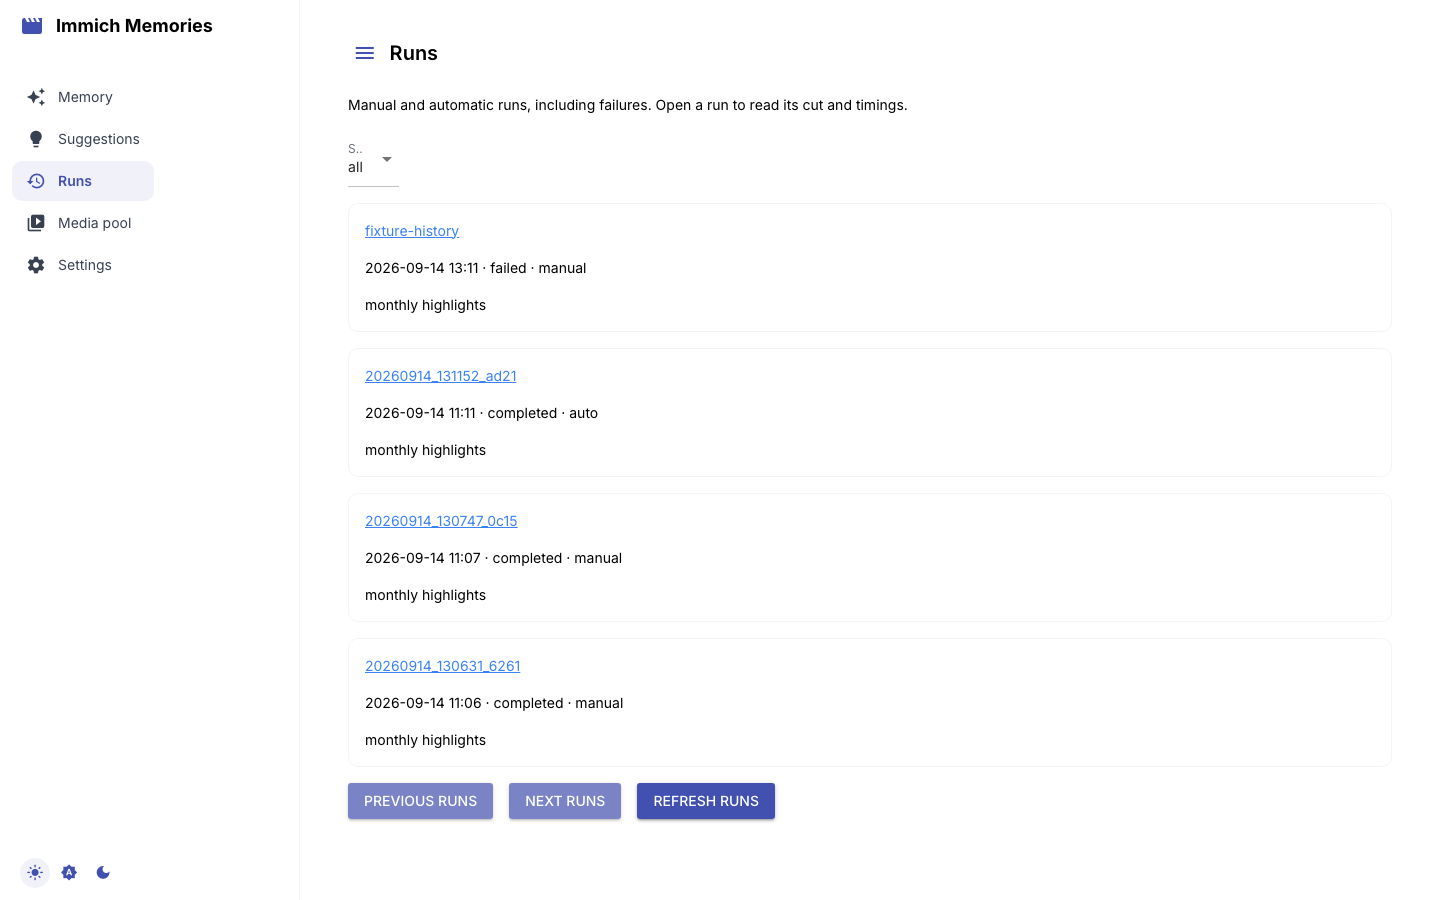
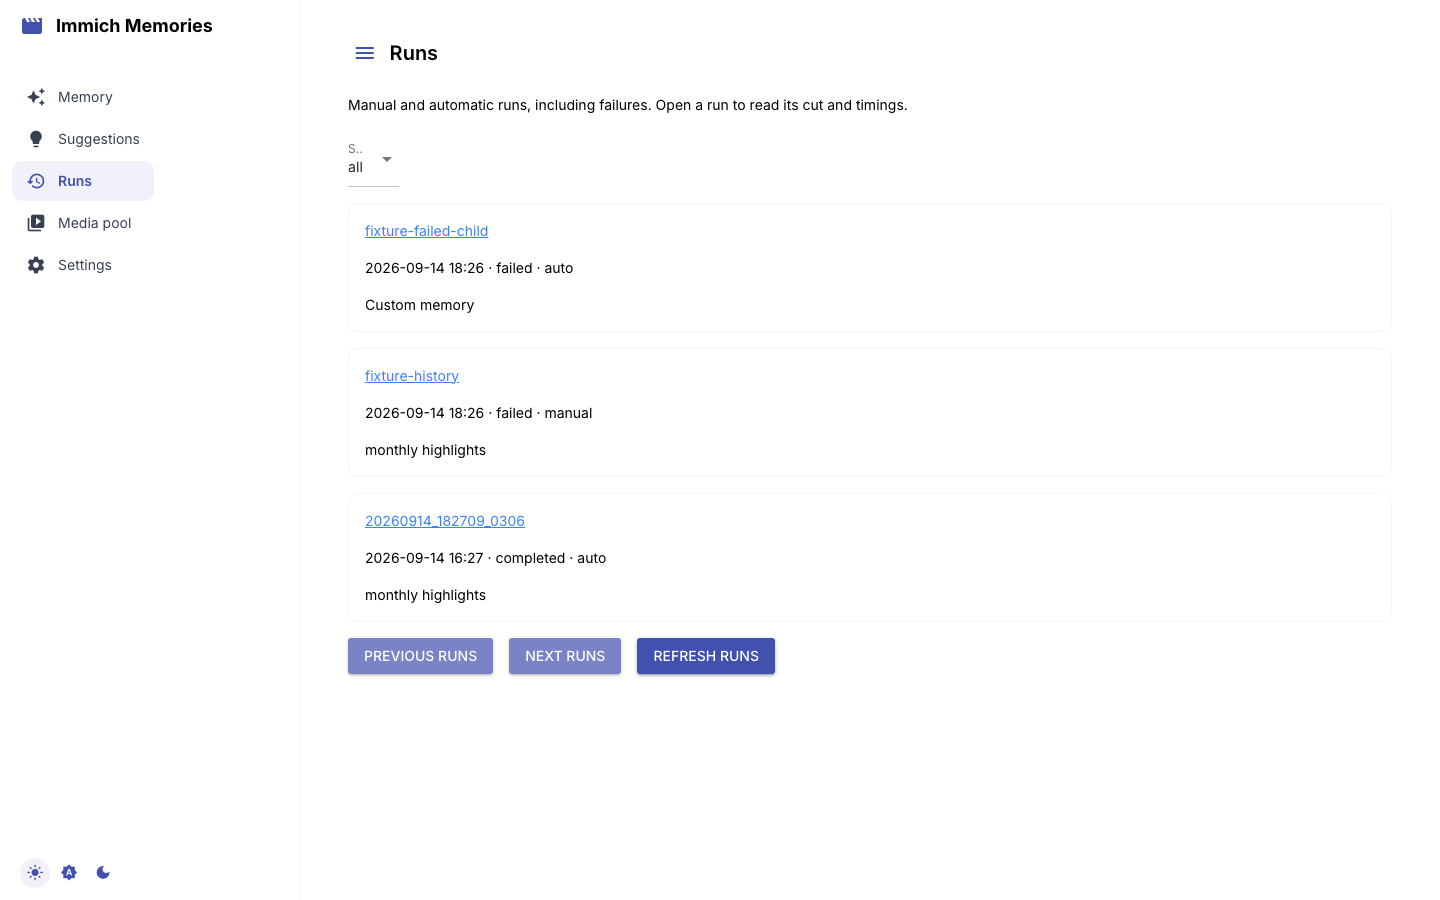
fix(ui): start a suggestion the way the trigger API does, and open a failed run
The Suggestions page called AutoRunner.run_one, the blocking path the runner
keeps apart from start_one precisely because an HTTP surface has to answer
immediately. The page now takes the lease itself under its own attempt reason,
submits the work off the request path, and polls the attempt: while a render
runs the page names its pipeline phase instead of showing one static line, and
`auto status` can tell a browser click apart from the nightly wake.

A failed generation finishes with no run id on the attempt, so the page offered
no way to reach the run whose transcript is the reason the transcript exists.
RunDatabase can now find the run an attempt started whatever its status, and the
outcome line carries the error the attempt recorded.

Two loads could overlap (the first-load timer and the Refresh button), each
clearing an empty column and appending its own copy of the list.

run-details.png and dark-run-details.png were committed but nothing in the docs
resolved them; they now illustrate the paragraph in runs.mdx that describes a
run's details, and the fixture path redaction no longer stamps a 2025 filename
over a 2024 cut.

Claude-Session: https://claude.ai/code/session_01WB1CNaEvtRKx9hFW8NR59V

diff --git a/src/immich_memories/ui/pages/suggestions.py b/src/immich_memories/ui/pages/suggestions.py
@@ -1,11 +1,28 @@
 """The automation runner's eligible memories and its reasons for passing over others."""
 
+import asyncio
+from typing import Any
+
 from nicegui import run, ui
 
-from immich_memories.automation.models import AutoOutcome
-from immich_memories.automation.runner import AutoRunner
+from immich_memories.automation.models import AutomationAttempt, AutoOutcome
+from immich_memories.automation.runner import (
+    AutomationAlreadyRunningError,
+    AutoRunner,
+    StartedAutoRun,
+)
+from immich_memories.automation.state_store import AutomationStateStore
 from immich_memories.security import sanitize_error_message
+from immich_memories.tracking import RunDatabase
 from immich_memories.ui.components import im_card
+
+# What the attempt history records for a run somebody started from this page, so
+# `auto status` and /health tell a browser click apart from the nightly wake.
+SUGGESTION_REASON = "web suggestion"
+
+# asyncio keeps only a weak reference to a bare task, so a generation nobody
+# awaits can be collected mid-render. These are the strong ones.
+_running: set[asyncio.Task[Any]] = set()
 
 _RULES = {
     "same_category_as_previous": "The previous automatic memory used this category.",
@@ -13,6 +30,51 @@ _RULES = {
     "monthly_review_already_completed_this_month": "A monthly review already finished this month.",
     "person_in_last_two_person_runs": "These people appear in the last two people memories.",
 }
+
+
+def _start(config) -> StartedAutoRun | None:
+    try:
+        return AutoRunner(config).start_one(reason=SUGGESTION_REASON)
+    except AutomationAlreadyRunningError:
+        return None
+
+
+def _submit(started: StartedAutoRun, *, candidate_key: str, dry_run: bool) -> None:
+    """Execute the accepted decision off the page, the way the HTTP trigger does.
+
+    A generation blocks for up to two hours. Awaiting it here would hold a worker
+    and leave the page with nothing to show but one static line.
+    """
+    task = asyncio.create_task(
+        asyncio.to_thread(started.execute, candidate_key=candidate_key, dry_run=dry_run)
+    )
+    _running.add(task)
+    task.add_done_callback(_running.discard)
+
+
+def _read_attempt(config, attempt_id: str) -> AutomationAttempt | None:
+    return AutomationStateStore(config.cache.database_path).get_attempt(attempt_id)
+
+
+def _run_id_for(config, attempt: AutomationAttempt) -> str | None:
+    """The run to open: the one the attempt recorded, else the one it started.
+
+    A failed generation finishes with no run id on the attempt, but the child
+    opened its run record before it failed, and that is where its output lives.
+    """
+    if attempt.run_id:
+        return attempt.run_id
+    record = RunDatabase(config.cache.database_path).get_run_by_automation_attempt(attempt.id)
+    return record.run_id if record else None
+
+
+def _finished_text(attempt: AutomationAttempt) -> str:
+    if attempt.outcome is AutoOutcome.DRY_RUN:
+        return "Eligible. No video was generated."
+    headline = f"{attempt.outcome.value.replace('_', ' ').capitalize()}: {attempt.reason}"
+    if attempt.error and attempt.error != attempt.reason:
+        return f"{headline}\n{attempt.error}"
+    return headline
 
 
 class SuggestionsPage:
@@ -33,38 +95,59 @@ class SuggestionsPage:
         self.result_label = ui.label().classes("whitespace-pre-wrap")
         self.result_actions = ui.row()
         self.content = ui.column().classes("w-full")
+        self.attempt_id: str | None = None
+        self.loading = False
+        self.watch = ui.timer(1.0, self._follow, active=False)
 
         self.refresh.on_click(self._load)
         ui.timer(0.1, self._load, once=True)
 
-    async def _execute(self, key: str, *, dry_run: bool) -> None:
+    def _busy(self, message: str) -> None:
         self.refresh.disable()
         self.result_actions.clear()
         self.content.props("inert")
-        self.result_label.set_text(
-            "Checking eligibility…"
-            if dry_run
-            else "Generating on the server… The result will appear in Runs."
-        )
-        try:
-            result = await run.io_bound(
-                AutoRunner(self.config).run_one, candidate_key=key, dry_run=dry_run
-            )
-            if result is None:
-                return
+        self.result_label.set_text(message)
+
+    def _settle(self, message: str) -> None:
+        self.result_label.set_text(message)
+        self.refresh.enable()
+        self.content.props(remove="inert")
+
+    async def _execute(self, key: str, *, dry_run: bool) -> None:
+        self._busy("Checking eligibility…" if dry_run else "Starting on the server…")
+        started = await run.io_bound(_start, self.config)
+        if started is None:
+            self._settle("Automation is already running. Open Runs to follow it.")
+            return
+        self.attempt_id = started.attempt.id
+        _submit(started, candidate_key=key, dry_run=dry_run)
+        self.watch.activate()
+
+    async def _follow(self) -> None:
+        if self.attempt_id is None:
+            return
+        attempt = await run.io_bound(_read_attempt, self.config, self.attempt_id)
+        if attempt is None:
+            return
+        if attempt.outcome is AutoOutcome.RUNNING:
+            phase = attempt.last_phase.label.lower() if attempt.last_phase else "starting"
             self.result_label.set_text(
-                "Eligible. No video was generated."
-                if result.outcome is AutoOutcome.DRY_RUN
-                else f"{result.outcome.value.replace('_', ' ').capitalize()}: {result.reason}"
+                f"Running on the server: {phase}. It continues if you leave this page."
             )
-            if result.run_id:
-                with self.result_actions:
-                    ui.link("Open run", f"/runs?run_id={result.run_id}")
-        finally:
-            self.refresh.enable()
-            self.content.props(remove="inert")
+            return
+        self.watch.deactivate()
+        self.attempt_id = None
+        if run_id := await run.io_bound(_run_id_for, self.config, attempt):
+            with self.result_actions:
+                ui.link("Open run", f"/runs?run_id={run_id}")
+        self._settle(_finished_text(attempt))
 
     async def _load(self) -> None:
+        # The first load is a timer and the button is another entry point, so two
+        # can overlap; the second would clear an empty column and append a duplicate.
+        if self.loading:
+            return
+        self.loading = True
         self.refresh.disable()
         self.content.clear()
         self.result_label.set_text("Looking through the library…")
@@ -85,6 +168,7 @@ class SuggestionsPage:
                 f"Could not load suggestions: {sanitize_error_message(str(exc))}"
             )
         finally:
+            self.loading = False
             self.refresh.enable()
 
 

diff --git a/tests/e2e/test_automation_pages.py b/tests/e2e/test_automation_pages.py
@@ -37,10 +37,33 @@ def test_runs_page_reads_the_existing_database(page, launch_app_url, launch_work
     expect(page.get_by_text("Fixture provider stopped answering", exact=True)).to_be_visible()
 
 
+def test_a_failed_generation_still_offers_the_run_it_started(
+    page, launch_app_url, launch_workspace
+):
+    """A failure is exactly when the run record and its transcript are worth reaching."""
+    from tests.e2e.fake_automation import FAIL_MARKER
+
+    marker = launch_workspace.root / "state" / FAIL_MARKER
+    marker.parent.mkdir(parents=True, exist_ok=True)
+    marker.write_text("")
+    page.goto(f"{launch_app_url}/suggestions")
+    card = page.locator(".suggestion-card").filter(has_text="monthly review")
+    expect(card).to_be_visible(timeout=60_000)
+    card.get_by_role("button", name="Run this suggestion").click()
+    expect(page.get_by_text("Failed:", exact=False)).to_be_visible(timeout=120_000)
+    expect(page.get_by_role("link", name="Open run", exact=True)).to_be_visible()
+    expect(page.get_by_text("the fixture provider refused", exact=False)).to_be_visible()
+    page.get_by_role("link", name="Open run", exact=True).click()
+    expect(page.get_by_text("The fixture provider refused the render", exact=True)).to_be_visible()
+    expect(page.get_by_role("button", name="Download child output")).to_be_visible()
+
+
 def test_choose_generate_and_read_the_same_automatic_run(page, launch_app_url, launch_workspace):
     from pathlib import Path
 
+    from immich_memories.automation.state_store import AutomationStateStore
     from immich_memories.tracking import RunDatabase
+    from immich_memories.ui.pages.suggestions import SUGGESTION_REASON
     from tests.e2e.conftest import set_theme
     from tests.e2e.fake_library import CARRIERS, THESIS
     from tests.e2e.test_screenshots import _save
@@ -64,6 +87,11 @@ def test_choose_generate_and_read_the_same_automatic_run(page, launch_app_url, l
     set_theme(page, "light")
     expect(card).to_be_visible(timeout=60_000)
     card.get_by_role("button", name="Run this suggestion").click()
+    expect(page.get_by_text("Running on the server", exact=False)).to_be_visible(timeout=60_000)
+    # A run somebody clicked for is not a nightly wake, and only the live attempt
+    # carries that: finishing overwrites the reason with the outcome.
+    live = AutomationStateStore(launch_workspace.database_path).get_last_attempt()
+    assert live.reason == SUGGESTION_REASON
     expect(page.get_by_role("link", name="Open run", exact=True)).to_be_visible(timeout=240_000)
     page.get_by_role("link", name="Open run", exact=True).click()
     disclosure = page.get_by_text("Read the cut", exact=True)

diff --git a/tests/e2e/fake_automation.py b/tests/e2e/fake_automation.py
@@ -2,16 +2,40 @@
 
 import subprocess
 import sys
-from datetime import date
+from datetime import date, datetime
 from pathlib import Path
 
 from immich_memories.automation.models import ProcessResult
+
+# A test drops this file to make the next child fail the way a real generation
+# fails: its run record already opened, then a non-zero exit.
+FAIL_MARKER = "fail-next-child"
 
 
 class FixtureDate(date):
     @classmethod
     def today(cls):
         return cls(2024, 7, 1)
+
+
+def _child_that_opened_its_run_then_failed(command: list[str]) -> ProcessResult:
+    from immich_memories.config import get_config
+    from immich_memories.tracking import RunDatabase
+    from immich_memories.tracking.models import RunMetadata
+
+    values = dict(arg.split("=", 1) for arg in command if arg.startswith("--") and "=" in arg)
+    RunDatabase(get_config().cache.database_path).save_run(
+        RunMetadata(
+            run_id="fixture-failed-child",
+            created_at=datetime.now(),
+            status="failed",
+            source="auto",
+            memory_key=values.get("--memory-key"),
+            automation_attempt_id=values["--automation-attempt-id"],
+            warnings=["The fixture provider refused the render"],
+        )
+    )
+    return ProcessResult(1, "starting the fixture render\n", "the fixture provider refused\n")
 
 
 def install_fake_automation(config_path: Path, state_dir: Path) -> None:
@@ -25,6 +49,10 @@ def install_fake_automation(config_path: Path, state_dir: Path) -> None:
     trip_detection.reverse_geocode = lambda *_args, **_kwargs: "Annecy, France"
 
     def execute(command):
+        marker = state_dir / FAIL_MARKER
+        if marker.is_file():
+            marker.unlink()
+            return _child_that_opened_its_run_then_failed(command)
         result = subprocess.run(
             [
                 sys.executable,

diff --git a/tests/e2e/redaction.py b/tests/e2e/redaction.py
@@ -18,7 +18,7 @@ from playwright.sync_api import Page
 _INPUT_REDACTIONS = [
     ('input[aria-label="Immich Server URL"]', "https://photos.example.com"),
     ('input[aria-label="API Key"]', "your-api-key-here"),
-    ('input[aria-label="Output filename"]', "everyone_2025_memories.mp4"),
+    ('input[aria-label="Output filename"]', "everyone_june_2024_memories.mp4"),
     ('input[aria-label="Title"]', "Summer Adventures"),
     ('input[aria-label="Subtitle"]', "June 2025"),
 ]
@@ -32,14 +32,14 @@ _TEXT_REDACTIONS = [
     (r"http:\/\/\d+\.\d+\.\d+\.\d+:\d+", "https://photos.example.com"),
     (
         r"\/Users\/\w+\/Videos\/Memories\/.*",
-        "/home/user/Videos/Memories/everyone_2025_memories.mp4",
+        "/home/user/Videos/Memories/everyone_june_2024_memories.mp4",
     ),
     (r"\/Users\/\w+\/\.immich-memories\/.*", "/home/user/.immich-memories/config.yaml"),
     (
         r"Will be saved to: .*",
-        "Will be saved to: /home/user/Videos/Memories/everyone_2025_memories.mp4",
+        "Will be saved to: /home/user/Videos/Memories/everyone_june_2024_memories.mp4",
     ),
-    (r"Saved to: .*", "Saved to: /home/user/Videos/Memories/everyone_2025_memories.mp4"),
+    (r"Saved to: .*", "Saved to: /home/user/Videos/Memories/everyone_june_2024_memories.mp4"),
     (r"Config file: .*", "Config file: /home/user/.immich-memories/config.yaml"),
     (r"Using \w+'s birthday: .+", "Using Fake Person's birthday: June 15, 1995"),
     (r"\d+\.\d{4,},\s*-?\d+\.\d{4,}", "48.8566, 2.3522"),

diff --git a/tests/test_run_database_fk.py b/tests/test_run_database_fk.py
@@ -478,6 +478,27 @@ def test_completed_automation_attempt_identity_is_exact(db: RunDatabase) -> None
     )
 
 
+def test_a_failed_automation_attempt_still_finds_the_run_it_started(db: RunDatabase) -> None:
+    """A failed generation is exactly when its run record is worth reaching."""
+    failed = RunMetadata(
+        run_id="failed-child",
+        created_at=datetime(2026, 7, 2, 9, 0),
+        status="failed",
+        memory_type="trip",
+        memory_key="trip:key",
+        source="auto",
+    )
+    failed.automation_attempt_id = "attempt-that-failed"
+    db.save_run(failed)
+
+    assert (
+        db.get_completed_run_by_automation_attempt("attempt-that-failed", memory_key="trip:key")
+        is None
+    )
+    assert db.get_run_by_automation_attempt("attempt-that-failed") == failed
+    assert db.get_run_by_automation_attempt("attempt-never-started") is None
+
+
 def test_completed_automation_attempt_identity_rejects_ambiguity(db: RunDatabase) -> None:
     """Two matching child rows are corruption, not a license to pick one."""
     first = _make_completed_run("duplicate-first", datetime(2026, 7, 2, 9, 0))

diff --git a/src/immich_memories/tracking/run_database.py b/src/immich_memories/tracking/run_database.py
@@ -659,6 +659,24 @@ class RunDatabase:
             ).fetchall()
             return {row["memory_key"] for row in rows}
 
+    def get_run_by_automation_attempt(self, automation_attempt_id: str) -> RunMetadata | None:
+        """Find the newest run of any status that one automation attempt started.
+
+        The completed-only lookup answers delivery; this one answers "where did
+        that attempt end up", which is the question a failed attempt raises.
+        """
+        with self._get_connection() as conn:
+            row = conn.execute(
+                """
+                SELECT * FROM pipeline_runs
+                WHERE automation_attempt_id = ?
+                ORDER BY created_at DESC, run_id DESC
+                LIMIT 1
+                """,
+                (automation_attempt_id,),
+            ).fetchone()
+        return row_to_run(row) if row else None
+
     def get_completed_run_by_automation_attempt(
         self,
         automation_attempt_id: str,
